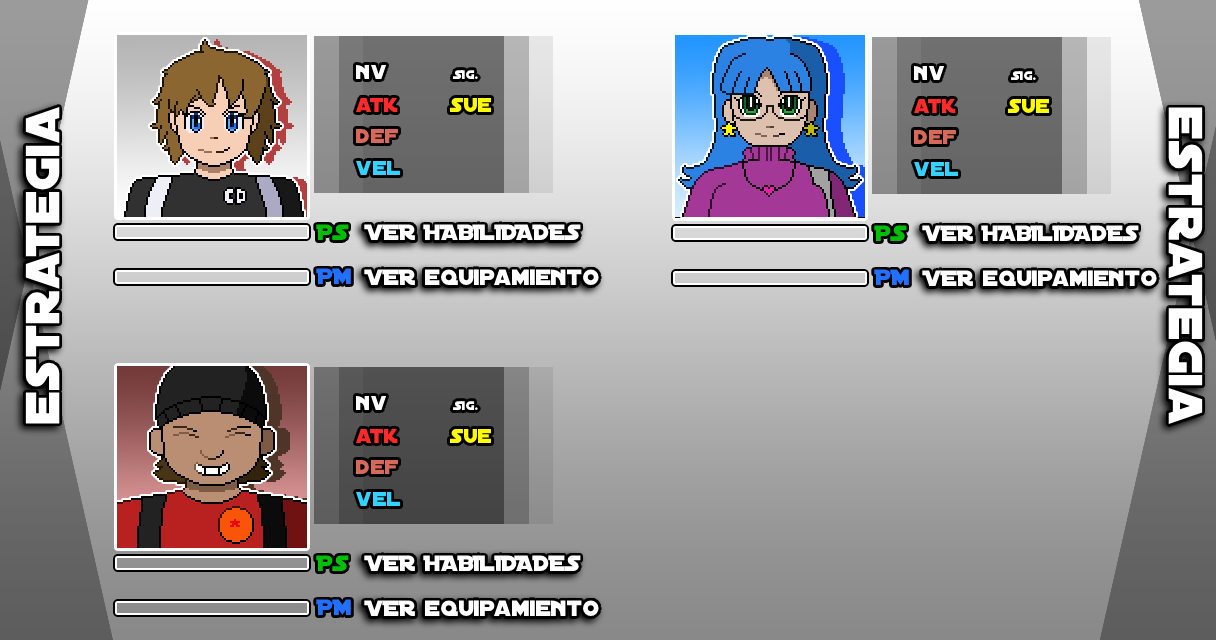
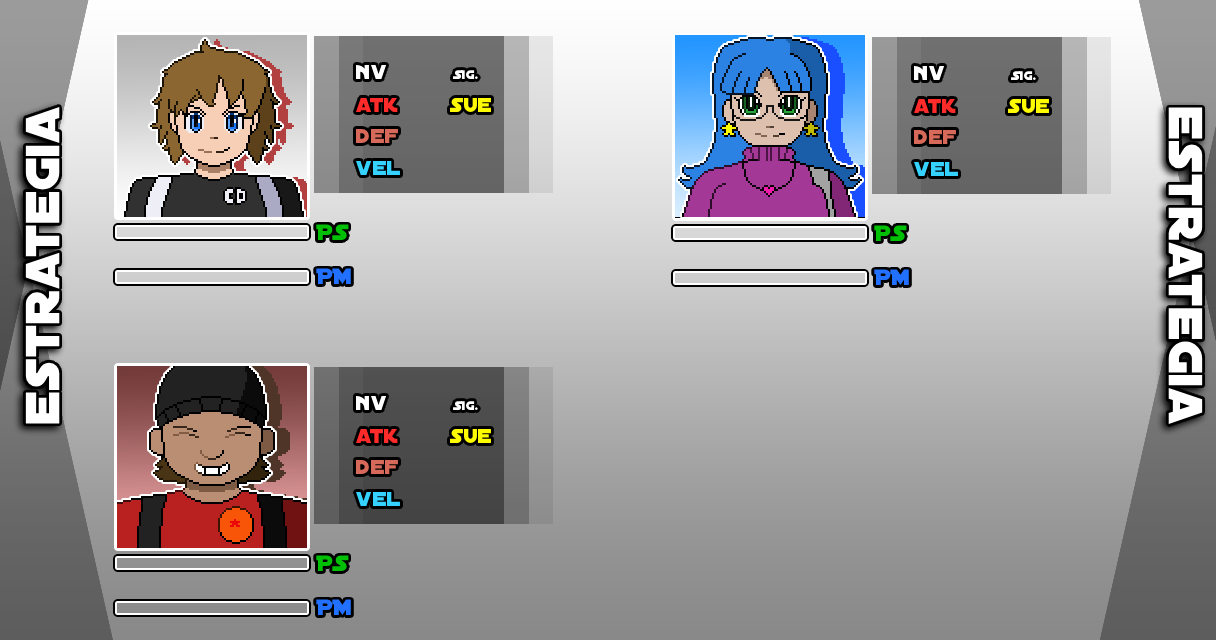
Arreglando cosas interfaz de estrategia + musica + tileset de mazmorra

Changed region(s): [[0.2812, 0.8438, 0.5, 1.0], [0.2812, 0.3438, 0.5, 0.4688], [0.75, 0.3438, 0.9688, 0.4688]]

diff --git a/src/menuScenes/EstrategiaScene.js b/src/menuScenes/EstrategiaScene.js
@@ -17,6 +17,10 @@ export default class EstrategiaScene extends Phaser.Scene {
     create() {
         const gm = GameManager.getInstance();
 
+        // Asegurar que no hay panel abierto al inicializar
+        this.closePanel();
+        this.panelActivo = null;
+
         // Fondo con UI de estrategia
         this.add.image(608, 320, 'estrategiaUI').setDisplaySize(1216, 640);
 
@@ -54,6 +58,7 @@ export default class EstrategiaScene extends Phaser.Scene {
     }
 
     closeScene() {
+        this.closePanel();
         this.scene.stop();
         this.scene.start('MenuPrincipal');
     }
@@ -189,17 +194,31 @@ this.add.text(pos.speed.x, pos.speed.y, `${stats.speed}`, estiloStats);
 this.add.text(pos.luck.x, pos.luck.y, `${stats.luck}`, estiloStats);
 
         // Botones interactivos en la UI
-        const btnStyle = { fontSize: '12px', fill: '#00ffea', fontFamily: 'Distant Galaxy', fontStyle: 'bold' };
+        const btnStyle = { fontSize: '20px', fill: '#ffffff', fontFamily: 'Distant Galaxy', fontStyle: 'bold', stroke: '#000000', strokeThickness: 5 };
 
-        // Ajustamos ubicación de botones dentro del cuadro visual (sobre imagen)
-        const botonesY = y + 205;
-        const verHab = this.add.text(x + 16, botonesY, 'VER HABILIDADES', btnStyle).setInteractive({ useHandCursor: true });
-        const verEq = this.add.text(x + 16, botonesY + 20, 'VER EQUIPAMIENTO', Object.assign({}, btnStyle, { fill: '#5aa6ff' })).setInteractive({ useHandCursor: true });
+        // Posiciones predefinidas por personaje (similar al estilo de coordenadasNivel)
+        const coordenadasBotones = {
+            Jugador1: { habilidades: { x: 373, y: 226 }, equipamiento: { x: 373, y: 270 } },
+            Jugador2: { habilidades: { x: 373, y: 550 }, equipamiento: { x: 373, y: 594 } },
+            Jugador3: { habilidades: { x: 920, y: 226 }, equipamiento: { x: 920, y: 270 } },
+            Jugador4: { habilidades: { x: 920, y: 550 }, equipamiento: { x: 920, y: 594 } }
+        };
+
+        const defaultBotones = {
+            habilidades: { x: x + 16, y: y + 205 },
+            equipamiento: { x: x + 16, y: y + 225 }
+        };
+
+        const gm = GameManager.getInstance();
+        const configBotones = coordenadasBotones[nombre] || defaultBotones;
+        const posHabilidades = configBotones.habilidades || defaultBotones.habilidades;
+        const posEquipamiento = configBotones.equipamiento || defaultBotones.equipamiento;
+
+        const verHab = this.add.text(posHabilidades.x, posHabilidades.y, 'VER HABILIDADES', btnStyle).setInteractive({ useHandCursor: true });
+        const verEq = this.add.text(posEquipamiento.x, posEquipamiento.y, 'VER EQUIPAMIENTO', Object.assign({}, btnStyle, { fill: '#5aa6ff' })).setInteractive({ useHandCursor: true });
 
         verHab.on('pointerdown', () => this.showHabilidadesPanel(nombre, stats));
         verEq.on('pointerdown', () => this.showEquipamientoPanel(nombre, stats));
-
-      
     }
 
     showHabilidadesPanel(nombre, stats) {
@@ -294,9 +313,11 @@ this.add.text(pos.luck.x, pos.luck.y, `${stats.luck}`, estiloStats);
 
         const titulo = this.add.text(608, panelY + 20, `EQUIPAMIENTO: ${nombre}`, {
             fontSize: '20px',
-            fill: '#f5d442',
+            fill: '#ffffff',
             fontFamily: 'Distant Galaxy',
-            fontStyle: 'bold'
+            fontStyle: 'bold',
+            stroke: '#000000',
+            strokeThickness: 5
         }).setOrigin(0.5, 0);
         group.add(titulo);
 

diff --git a/src/boot.js b/src/boot.js
@@ -28,7 +28,7 @@ import player2_battle from '../assets/sprites/player2_battle.png'
 import player3_battle from '../assets/sprites/player3_battle.png'
 import player4_battle from '../assets/sprites/player4_battle.png'
 
-import estrategiaUI from '../assets/images/estrategiaui.png'
+import estrategiaUI from '../assets/images/estrategiaui4.png'
 import menuPrincipal from '../assets/images/menuprincipal.png'
 
 import formulario from '../assets/images/formulario.png'

diff --git a/src/MapaFuera.js b/src/MapaFuera.js
@@ -4,6 +4,7 @@ import trigger from './trigger.js';
 import primerencuentro from './personajes/primerencuentro.js';
 import DialogueManager from './dialogueManager.js';
 import GameManager from './manager.js';
+import menuprincipal from './menuScenes/MenuPrincipal.js';
 
 /**
  * Escena del mapa exterior.

diff --git a/src/MapaFueraAux.js b/src/MapaFueraAux.js
@@ -4,6 +4,7 @@ import trigger from './trigger.js';
 import primerencuentro from './personajes/primerencuentro.js';
 import GameManager from './manager.js';
 import DialogueManager from './dialogueManager.js';
+import menuprincipal from './menuScenes/MenuPrincipal.js';
 
 /**
  * Escena del mapa exterior (mapaFuera).